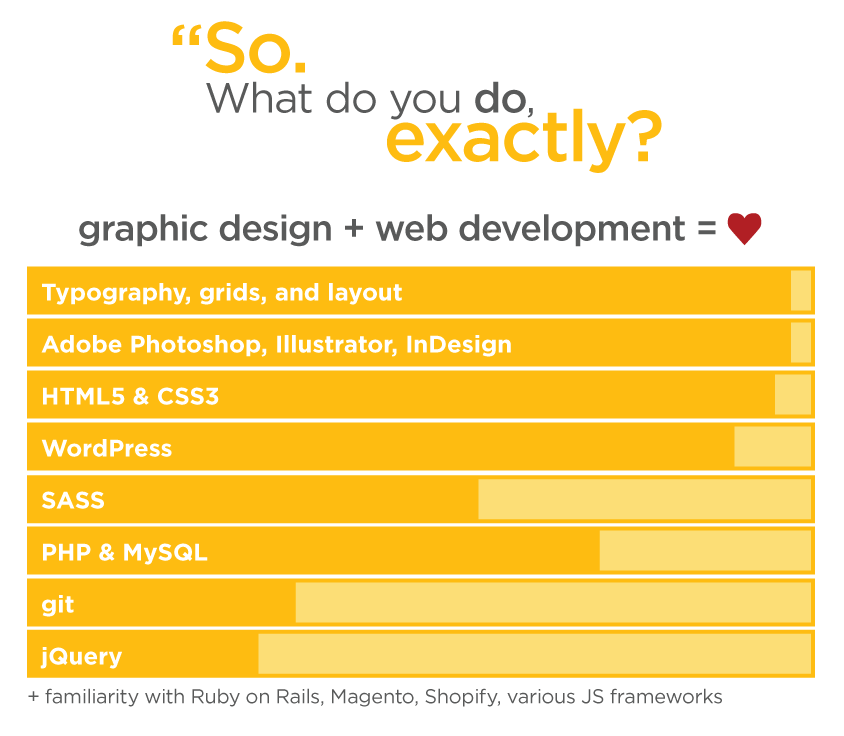
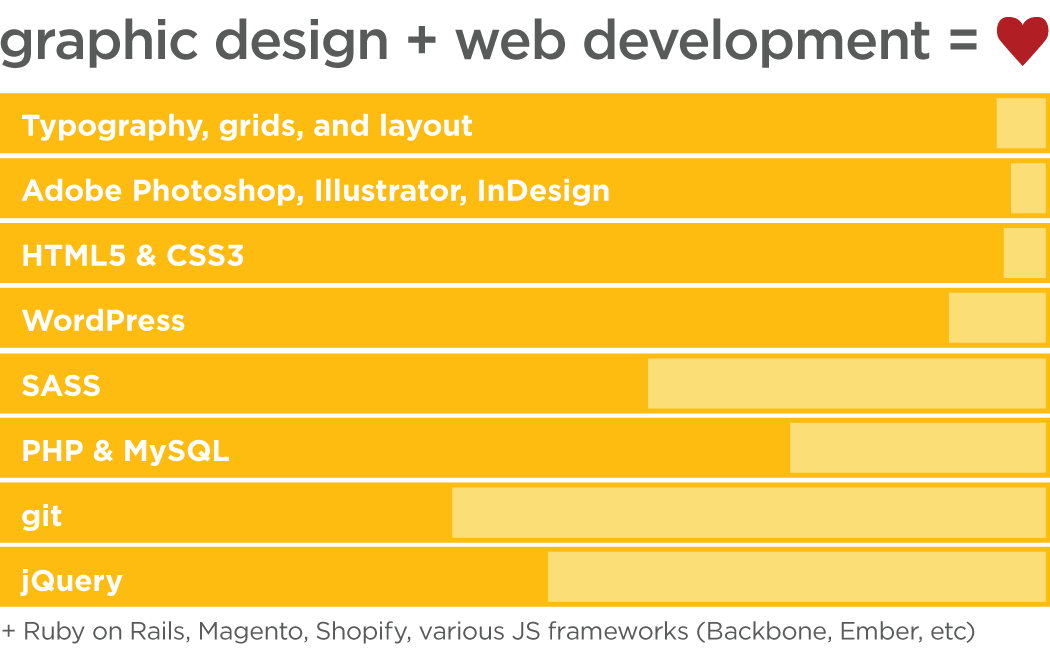
Tweak skills chart on services  page.

diff --git a/style.css b/style.css
@@ -1030,7 +1030,8 @@ figure br {
 }
 .fine-print {
 	font-size: .75em;
-	line-height: 1em;
+	line-height: 1.2em;
+	margin: .25em 0;
 }
 
 
@@ -1113,6 +1114,9 @@ figure br {
 
 
 /* services */
+#skills-graph {
+	margin-top: 95px;
+}
 .service-icon {
 	width: 20%;
 	float: left;
@@ -1374,7 +1378,8 @@ input[type=submit], #infinite-handle:after {
 	text-transform: uppercase;
 	letter-spacing: 1px;
 	transition: all .3s ease-out 0s;	
-} input[type=submit]:hover, input[type=submit]:focus, input[type=submit]:active {
+} 
+input[type=submit]:hover, input[type=submit]:focus, input[type=submit]:active {
 	background-color: #b20000;
 	background: -moz-linear-gradient(bottom, #b20000 0%, #850000 100%);
 	background: -o-linear-gradient(bottom, #b20000 0%, #850000 100%);

diff --git a/pages/services.php b/pages/services.php
@@ -3,13 +3,13 @@
 		
 		<p>It might be shorter to give you a list of the things I <em>don't</em> do: Flash, SEO, back-end development, or waste anyone's time. Need an illustration? Copywriting? Search engine optimization? Photography? Custom programming? I know a guy. (Oh, and if you already <em>know</em> a guy, I play well with others.)</p>
 		
-		<p>Sound good? <a href="/contact">Let's chat!</a></p>
+		Sound good? <a href="/contact">Let&rsquo;s chat!</a>
 	</div>
 	
 	<div class="fivecol last">
-		<img src="<?php echo $path; ?>services/skills.png" class="borderless">
+		<img src="<?php echo $path; ?>services/skills.png" class="borderless" id="skills-graph">
 		
-		<p class="fine-print">Just a few of the things I've made for clients in the past: WordPress blogs, MailChimp templates, e-commerce sites, custom websites, Facebook apps, CD covers, posters, menus, labels, logos, stationary, wedding invitations, web apps, thank-you cards, business cards, flyers, postcards, stickers, newspaper &amp; magazine advertisements, museum panel displays, window signage, resumes, social media profile graphics, book covers, iPhone apps, packaging.</p>
+		<p class="fine-print">Just a few of the things I've made for clients in the past: WordPress blogs, MailChimp templates, e-commerce sites, custom websites, Facebook apps, CD covers, posters, menus, labels, logos, stationary, wedding invitations, web apps, thank-you cards, business cards, flyers, postcards, stickers, newspaper &amp; magazine advertisements, museum panel displays, window signage, resumes, social media profile graphics, book covers, iPhone apps, packaging. <em>Whew!</em></p>
 	</div>
 
 
